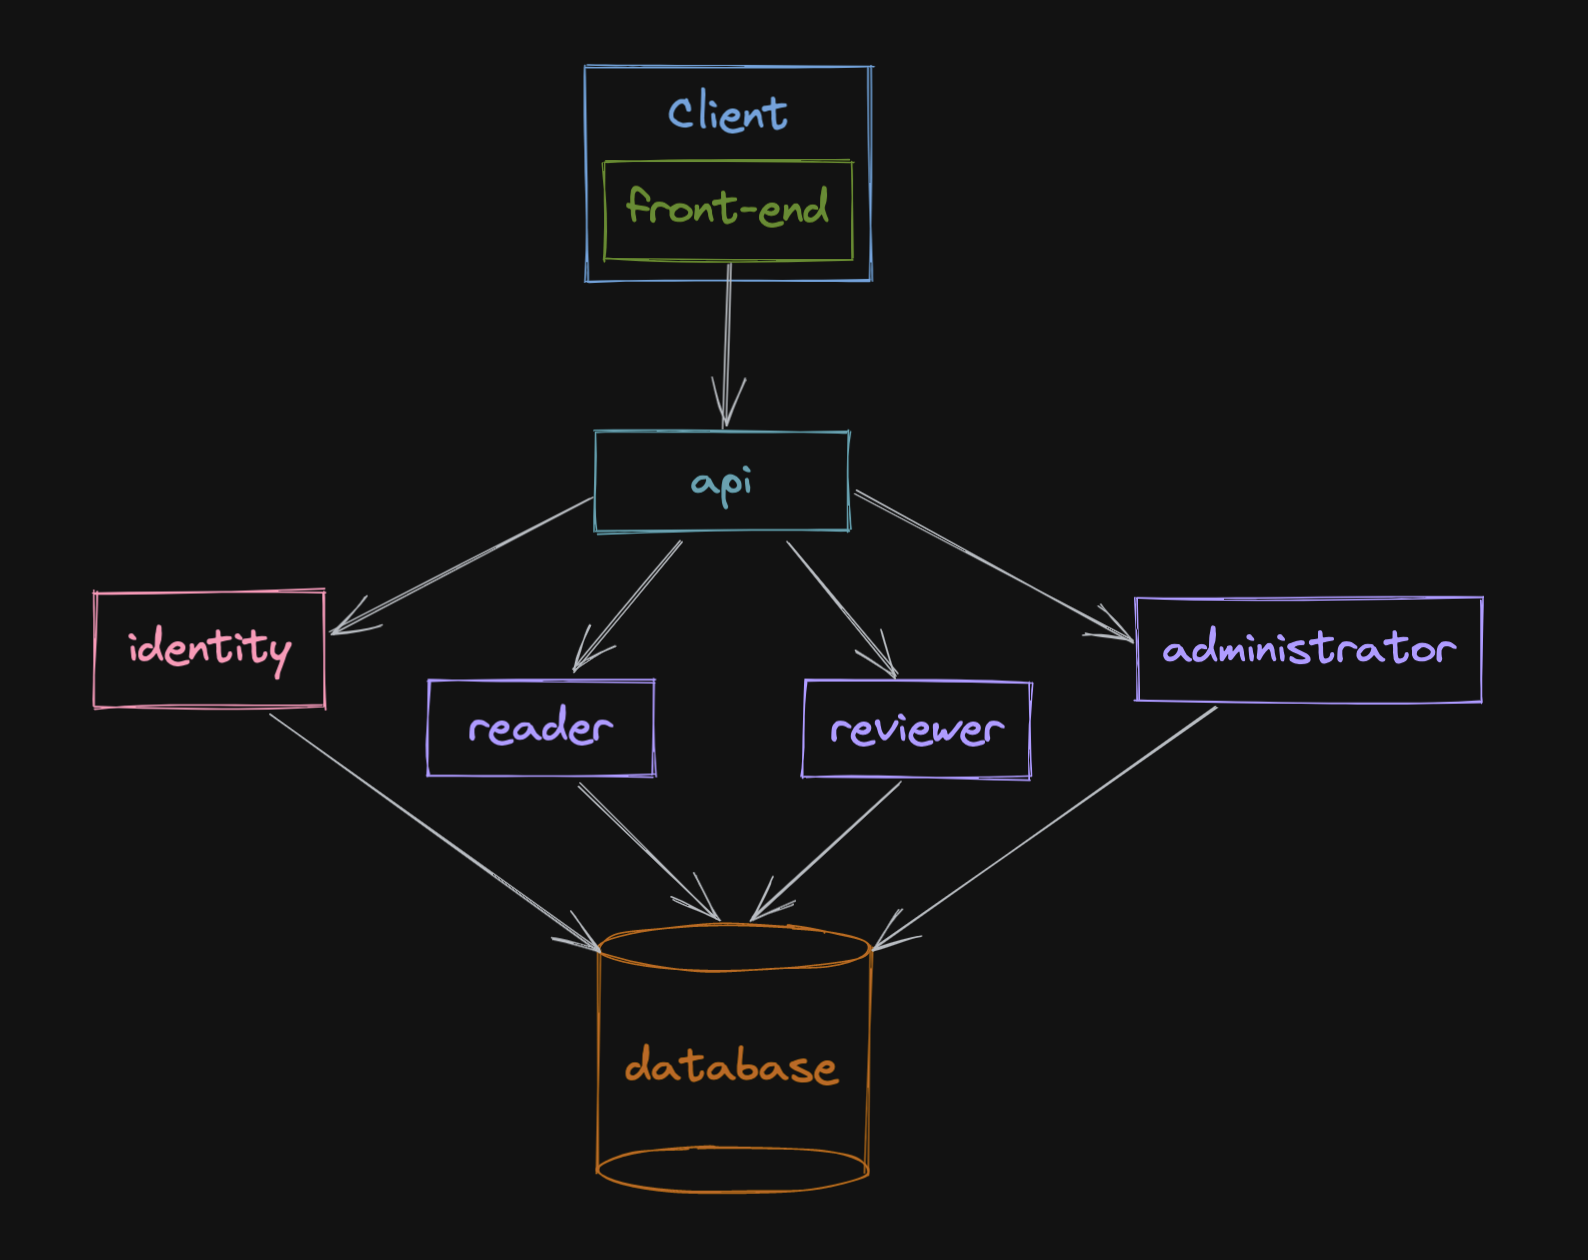
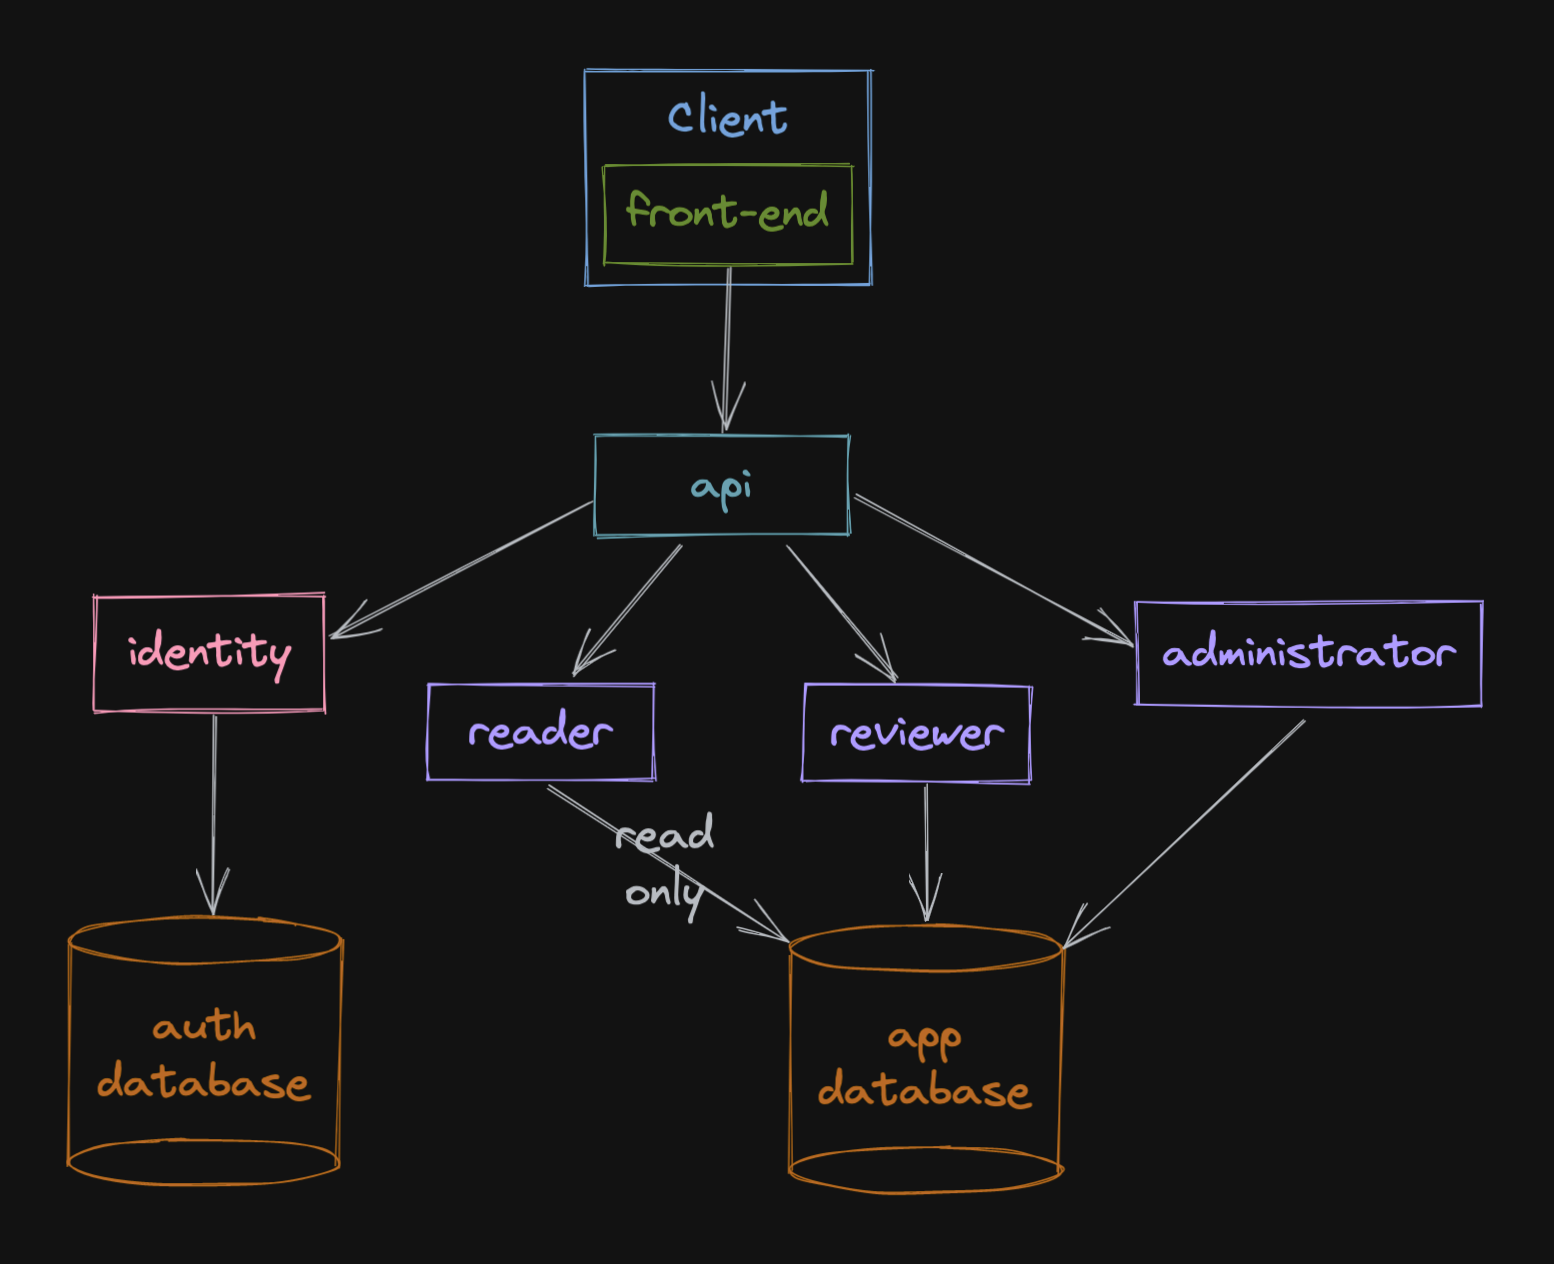
design documentation

diff --git a/documentation/design/domain-data.md b/documentation/design/domain-data.md
@@ -105,44 +105,58 @@ an article at most once.
 
 The data model is composed of entities that represent abstract concepts and concerns related to the real world objects
 in the domain model. In this case, our data model is best described by the database schema used in our underlying
-relational database.
+relational databases.
 
-### User
+We will utilize two databases to provide a security boundary around auth data.
+
+### Auth Data Model
+
+#### User
 
 The `User` table actually contains a hashed passphrase, unlike the domain model. `Roles` are a related entity.
 
-#### Fields
+##### Fields
 
 - id: UUID
 - email: email [indexed]
 - hashed_passphrase: string
 
-### Role
+#### Role
 
 The `Role` table contains three records at the moment, and is populated when the table is created in a migration.
 
-#### Fields
+##### Fields
 
 - id: UUID
 - name: string [indexed]
 
-### UserRole
+#### UserRole
 
 The `UserRole` table allows us to apply roles to a given user.
 
-#### Fields
+##### Fields
 
 - id: UUID
 - user_id: UUID [indexed]
 - role_id: UUID
 
-#### Constraints
+##### Constraints
 
 - foreign_key(user_id, User.id)
 - foreign_key(role_id, Role.id)
 - unique(user_id, role_id)
 
-### Article
+### App Data Model
+
+#### User
+
+The `User` table is a placeholder for an id from `identity`.
+
+##### Fields
+
+- id: UUID
+
+#### Article
 
 The `Article` table contains most of the information required to populate our domain entity.
 
@@ -152,7 +166,7 @@ are floating point values. From the reviewer's perspective, these values are int
 `Jargon`, `Comments` and `Tags` are all related entities. `Jargon` and `Tags` are many to one with `Articles`/`Reviews`,
 but `Comments` are one to one with `Reviews`. Thus we can store `Comments` directly on the `Review`, if we desire.
 
-#### Fields
+##### Fields
 
 - id: UUID
 - doi: string [indexed]
@@ -163,46 +177,46 @@ but `Comments` are one to one with `Reviews`. Thus we can store `Comments` direc
 - volume: string [nullable]
 - pages: string [nullable]
 
-#### Constraints
+##### Constraints
 
 - unique(doi)
 
-### Tag
+#### Tag
 
 The `Tag` table allows us to create tags that apply to all articles.
 
-#### Fields
+##### Fields
 
 - id: UUID
 - name: string [indexed]
 
-#### Constraints
+##### Constraints
 
 - unique(name)
 
-### ArticleTag
+#### ArticleTag
 
 The `ArticleTag` table allows administrators apply administrator-defined `Tags` to articles.
 
-#### Fields
+##### Fields
 
 - id: UUID
 - article_id: UUID [indexed]
 - tag_id: UUID [indexed]
 
-#### Constraints
+##### Constraints
 
 - foreign_key(article_id, Article.id)
 - foreign_key(tag_id, Tag.id)
 - unique(article_id, tag_id)
 
-### Review
+#### Review
 
 The `Review` table gives us a place to store individual review results.
 
 `Jargon` is a set of related entities. Each review can own a single comment.
 
-#### Fields
+##### Fields
 
 - id: UUID
 - article_id: UUID [indexed]
@@ -210,13 +224,13 @@ The `Review` table gives us a place to store individual review results.
 - duration: int [indexed]
 - difficulty: int [indexed]
 
-#### Constraints
+##### Constraints
 
 - foreign_key(article_id, Article.id)
 - foreign_key(user_id, User.id)
 - unique(article_id, user_id)
 
-#### Notes
+##### Notes
 
 Due to problem constraints, we must allow for reviews to be created without real users connected to them. This means
 we have a couple choices - we can allow nulls in the field, or we can create fake users (we could use something like
@@ -225,30 +239,47 @@ our test domain with sequential usernames for the emails, with random bytes for 
 PostgreSQL should keep the unique constraint while allowing multiple nulls for the same article_id. This seems like
 the clean choice.
 
-### Comment
+#### Comment
 
 The `Comment` table lets us attach a single comment to a review and track impressions vs helpfulness from the reader
 perspective (search view) to help us rank comments so we can display the top _N_.
 
-#### Fields
+##### Fields
 
 - id: UUID
 - article_id: UUID [indexed]
 - review_id: UUID [indexed]
 - user_id: UUID
 - content: string
-- impressions: int
-- helped: int
+- votes: int
 - sentiment: float
 
-#### Constraints
+##### Constraints
 
 - foreign_key(article_id, Article.id)
 - foreign_key(review_id, Review.id)
 - foreign_key(user_id, User.id)
 - unique(review_id)
 
-### Analytics
+#### CommentVote
+
+The CommentVote table associates a user with a comment should they choose upvote it. A user should not be able to vote
+on their own comment.
+
+##### Fields
+
+- id: UUID
+- comment_id: UUID [indexed]
+- user_id: UUID [indexed]
+- helpful: bool [indexed]
+
+##### Constraints
+
+- foreign_key(comment_id, Comment.id)
+- foreign_key(user_id, User.id)
+- unique(comment_id, user_id)
+
+#### Analytics
 
 The `Analytics` table allows us to cache aggregated results on a per article basis. There is a one to one mapping between
 articles and analytics records. They should be created in a transaction together.
@@ -257,31 +288,31 @@ Each time we add a new `Review`, we should, in a transaction, update the corresp
 transaction). This won't be a problem for our level of write load, but if you're having issues with this kind of thing
 in your setup you may need to consider sharding.
 
-#### Fields
+##### Fields
 
 - id: UUID
 - article_id: UUID [indexed]
 - duration: float [indexed]
 - difficulty: float [indexed]
 
-#### Constraints
+##### Constraints
 
 - foreign_key(article_id, Article.id)
 - unique(article_id)
 
-### Jargon
+#### Jargon
 
 The `Jargon` table allows us to associate jargon on a per `Review` basis, and the `article_id` field permits us to
 compute counts to rank the most important terms.
 
-#### Fields
+##### Fields
 
 - id: UUID
 - review_id: UUID [indexed]
 - article_id: UUID [indexed]
 - term: string [indexed]
 
-#### Constraints
+##### Constraints
 
 - foreign_key(review_id, Review.id)
 - foreign_key(article_id, Article.id)

diff --git a/documentation/design/README.md b/documentation/design/README.md
@@ -37,10 +37,17 @@ Within services, we maintain a similar rigidity and layering where layers only i
 layers, in isolation from processes in their own layer. Thanks to A. Tucker for teaching me this technique. In the
 future, should we have the need for more complex behaviours, we may consider adding another `orchestration` layer 
 between `api` and the `service` layer and some sort of data pipeline in the `infrastructure` layer that allows us
-maintain state during orchestration (though they do all use the same database...).
+maintain state during orchestration.
 
 By grouping functionality by user type/concern, we can scale components of the system independently, reacting to
 changes in user behaviour.
+
+By restricting reader instance access to the application database to read-only, we prevent our most exposed service
+from being able to modify application data.
+
+By isolating the auth database, we prevent a compromised administrator, reviewer or reader instance from modifying
+sensitive data. We also prevent exfiltration of password hashes by a compromised administrator, reviewer or reader
+instance.
 
 ![Arad](./assets/arad-simple.png)
 
@@ -118,9 +125,9 @@ resources. Currently ES256 is employed. We should consider upgrading to ES512 to
 
 ## Infrastructure Layer
 
-The infrastructure is composed of the database, and a distributed memory cache (not pictured) to improve performance.
+The infrastructure is composed of the databases, and a distributed memory cache (not pictured) to improve performance.
 
-By having only a single hard dependency, we can be assured of a higher uptime/downtime ratio.
+By having only fewer hard dependencies for each service, we can be assured of a higher uptime ratio.
 
 ### Database
 
